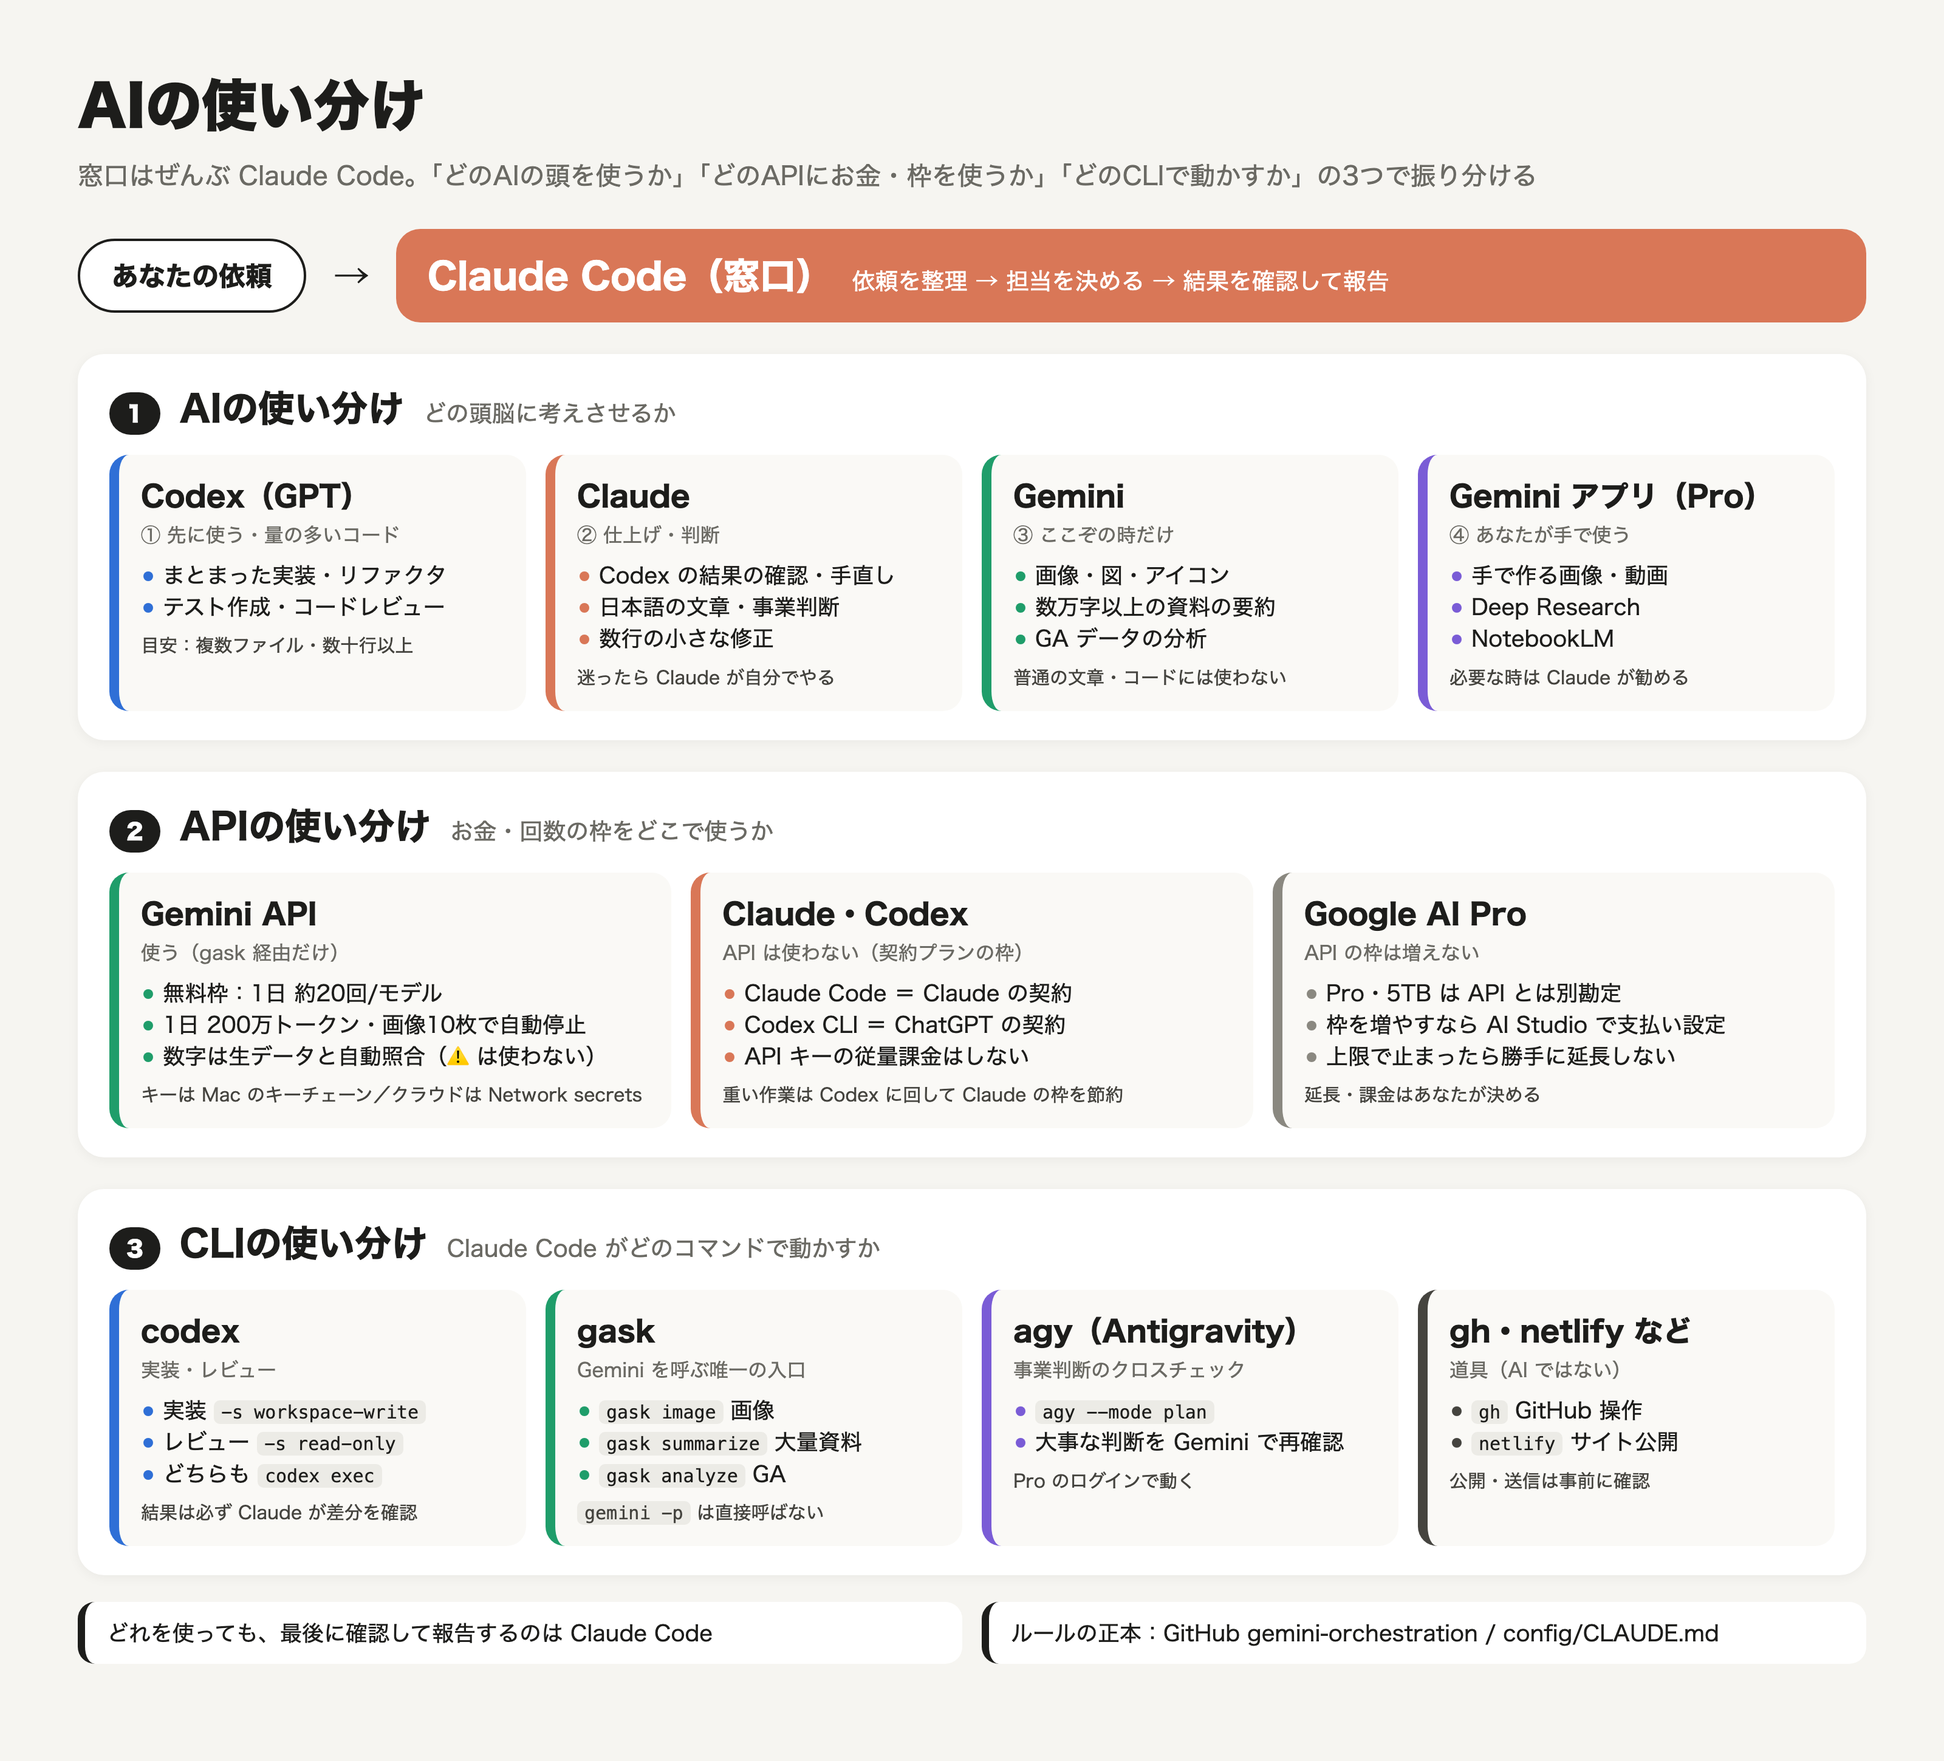
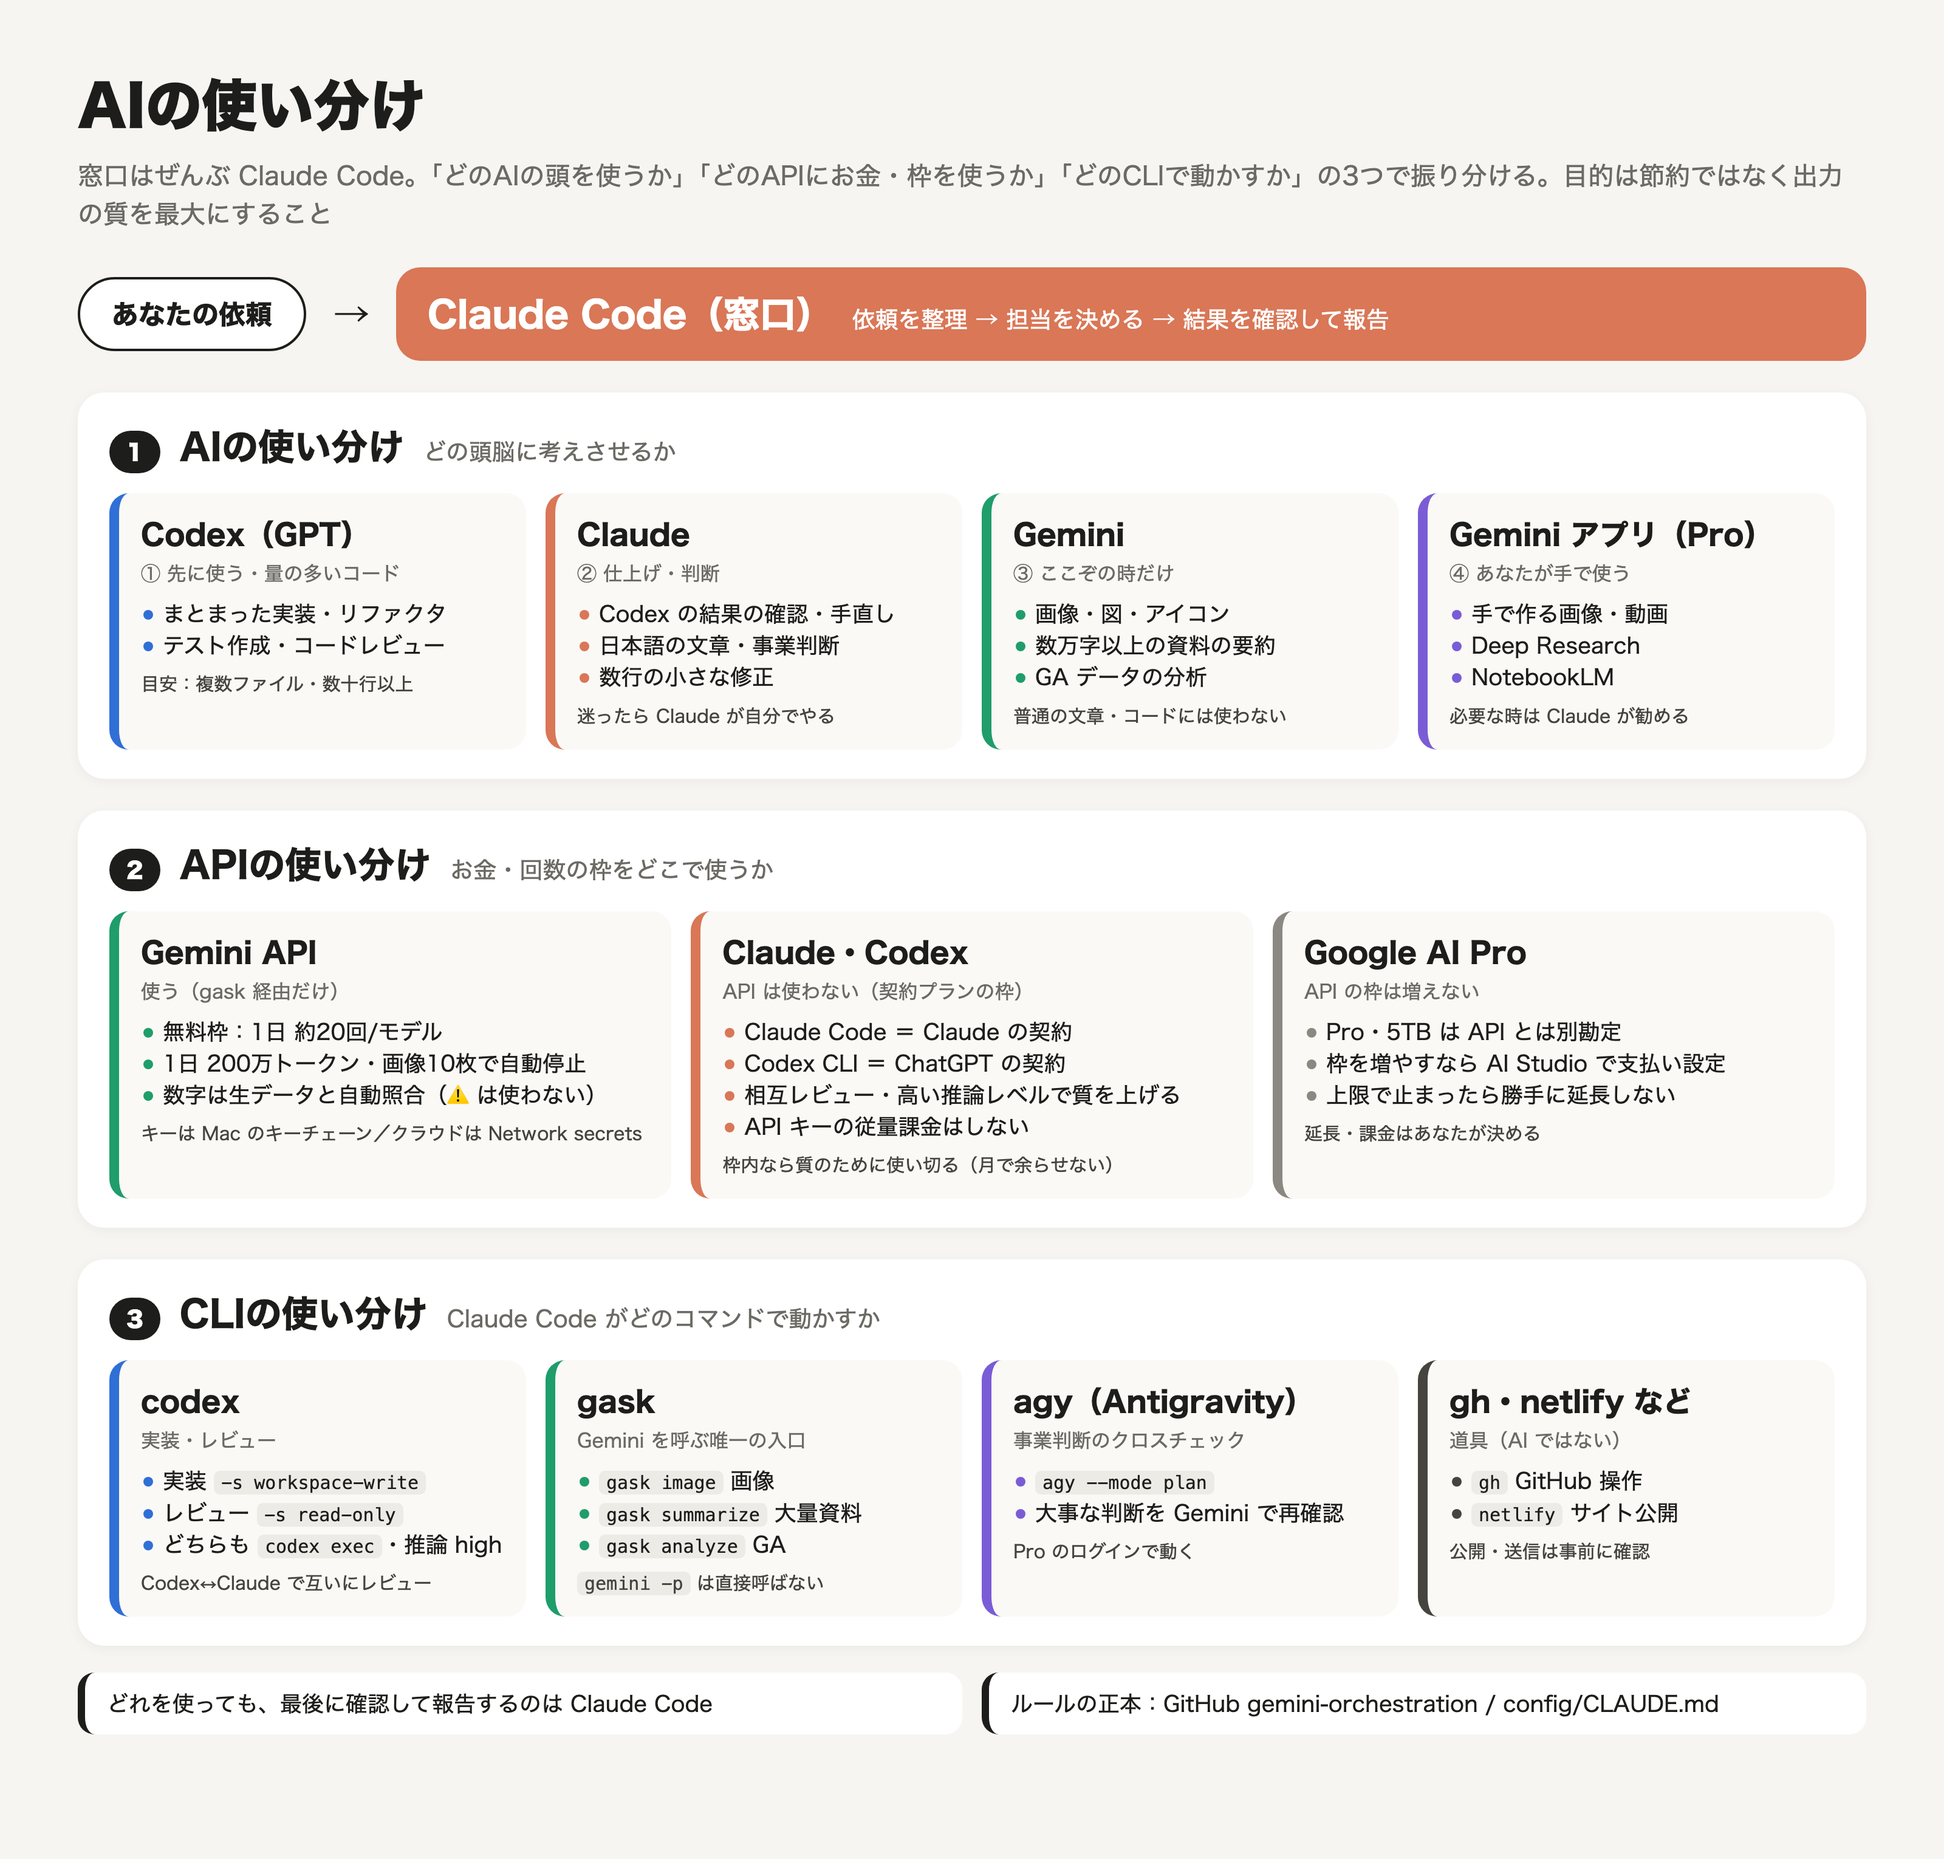
目的を「節約」から「出力の質を最大化」へ（相互レビュー・推論high・枠は使い切る）

diff --git a/docs/ai-routing.html b/docs/ai-routing.html
@@ -2,7 +2,7 @@
 <html lang="ja"><head><meta charset="utf-8"><title>AIの使い分け</title>
 <style>
 *{box-sizing:border-box;margin:0;padding:0}
-body{width:1600px;height:1450px;background:#f6f5f1;font-family:"Hiragino Sans","Hiragino Kaku Gothic ProN",sans-serif;color:#1d1d1b;padding:52px 64px}
+body{width:1600px;height:1530px;background:#f6f5f1;font-family:"Hiragino Sans","Hiragino Kaku Gothic ProN",sans-serif;color:#1d1d1b;padding:52px 64px}
 h1{font-size:46px;font-weight:800}
 .sub{font-size:21px;color:#6b6a64;margin-top:8px}
 .top{display:flex;align-items:center;gap:22px;margin-top:28px}
@@ -31,7 +31,7 @@ h1{font-size:46px;font-weight:800}
 .foot div{flex:1;background:#fff;border-radius:14px;padding:12px 18px;border-left:6px solid #1d1d1b}
 </style></head><body>
 <h1>AIの使い分け</h1>
-<div class="sub">窓口はぜんぶ Claude Code。「どのAIの頭を使うか」「どのAPIにお金・枠を使うか」「どのCLIで動かすか」の3つで振り分ける</div>
+<div class="sub">窓口はぜんぶ Claude Code。「どのAIの頭を使うか」「どのAPIにお金・枠を使うか」「どのCLIで動かすか」の3つで振り分ける。目的は節約ではなく出力の質を最大にすること</div>
 <div class="top"><div class="you">あなたの依頼</div><div class="to">→</div>
 <div class="hub"><b>Claude Code（窓口）</b><span>依頼を整理 → 担当を決める → 結果を確認して報告</span></div></div>
 
@@ -52,7 +52,7 @@ h1{font-size:46px;font-weight:800}
  <div class="card" style="--c:#1f9d6a"><h3>Gemini API</h3><div class="r">使う（gask 経由だけ）</div>
   <ul><li>無料枠：1日 約20回/モデル</li><li>1日 200万トークン・画像10枚で自動停止</li><li>数字は生データと自動照合（⚠ は使わない）</li></ul><div class="n">キーは Mac のキーチェーン／クラウドは Network secrets</div></div>
  <div class="card" style="--c:#d97757"><h3>Claude・Codex</h3><div class="r">API は使わない（契約プランの枠）</div>
-  <ul><li>Claude Code ＝ Claude の契約</li><li>Codex CLI ＝ ChatGPT の契約</li><li>API キーの従量課金はしない</li></ul><div class="n">重い作業は Codex に回して Claude の枠を節約</div></div>
+  <ul><li>Claude Code ＝ Claude の契約</li><li>Codex CLI ＝ ChatGPT の契約</li><li>相互レビュー・高い推論レベルで質を上げる</li><li>API キーの従量課金はしない</li></ul><div class="n">枠内なら質のために使い切る（月で余らせない）</div></div>
  <div class="card" style="--c:#8a8880"><h3>Google AI Pro</h3><div class="r">API の枠は増えない</div>
   <ul><li>Pro・5TB は API とは別勘定</li><li>枠を増やすなら AI Studio で支払い設定</li><li>上限で止まったら勝手に延長しない</li></ul><div class="n">延長・課金はあなたが決める</div></div>
 </div></div>
@@ -60,7 +60,7 @@ h1{font-size:46px;font-weight:800}
 <div class="sec"><div class="sh"><span class="num">3</span><h2>CLIの使い分け</h2><p>Claude Code がどのコマンドで動かすか</p></div>
 <div class="row c4">
  <div class="card" style="--c:#2f6fd6"><h3>codex</h3><div class="r">実装・レビュー</div>
-  <ul><li>実装 <code>-s workspace-write</code></li><li>レビュー <code>-s read-only</code></li><li>どちらも <code>codex exec</code></li></ul><div class="n">結果は必ず Claude が差分を確認</div></div>
+  <ul><li>実装 <code>-s workspace-write</code></li><li>レビュー <code>-s read-only</code></li><li>どちらも <code>codex exec</code>・推論 high</li></ul><div class="n">Codex↔Claude で互いにレビュー</div></div>
  <div class="card" style="--c:#1f9d6a"><h3>gask</h3><div class="r">Gemini を呼ぶ唯一の入口</div>
   <ul><li><code>gask image</code> 画像</li><li><code>gask summarize</code> 大量資料</li><li><code>gask analyze</code> GA</li></ul><div class="n"><code>gemini -p</code> は直接呼ばない</div></div>
  <div class="card" style="--c:#7a5cd6"><h3>agy（Antigravity）</h3><div class="r">事業判断のクロスチェック</div>
